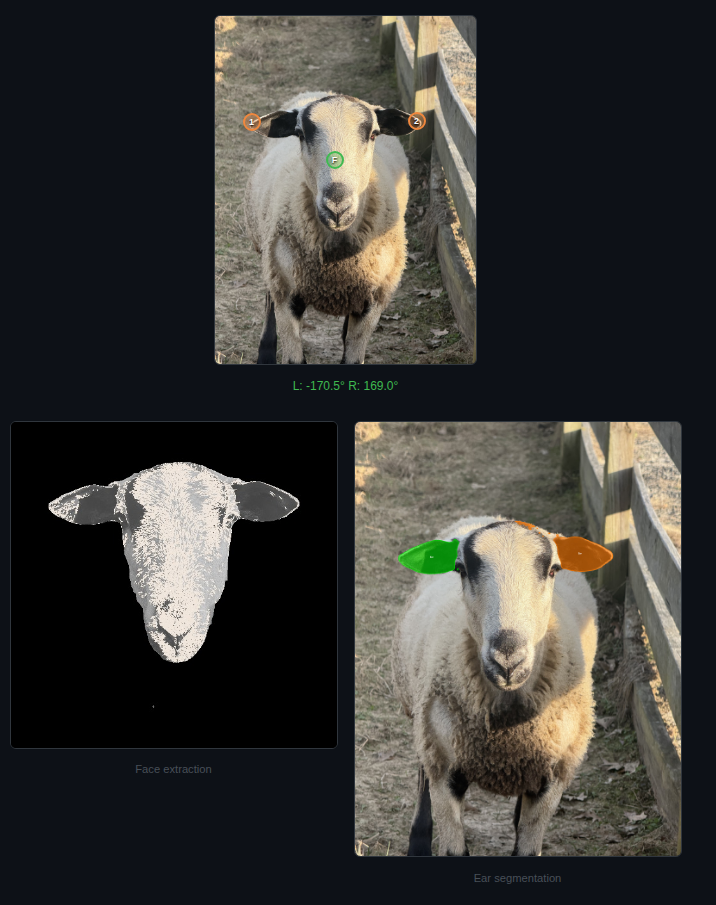
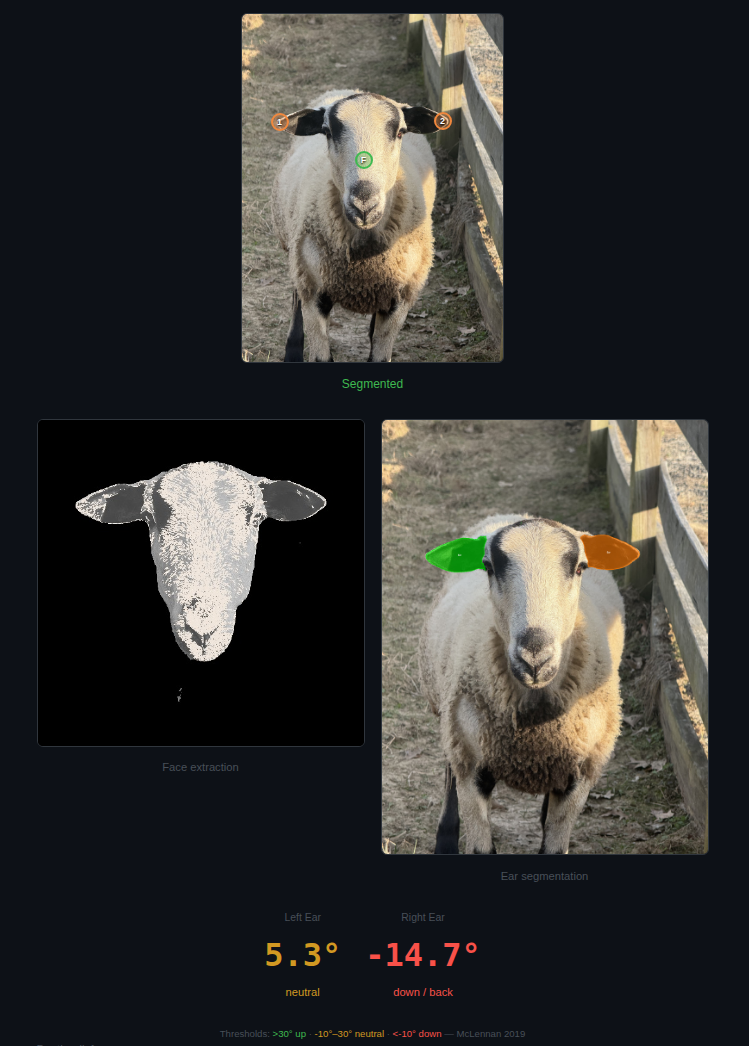
Updated charts

diff --git a/frontend/index.html b/frontend/index.html
@@ -68,7 +68,29 @@ h1{font-family:'SF Mono',monospace;color:#3fb950;font-size:1.4rem}
   <div><img id="img-ears"><div class="cap">Ear segmentation</div></div>
 </div>
 
-<!-- 4. Turntable -->
+<!-- 4. Ear angle measurements -->
+<div id="measurements" class="hidden">
+  <div style="display:flex;gap:1.5rem;justify-content:center;margin:1.5rem 0">
+    <div style="text-align:center">
+      <div style="font-size:.65rem;color:#484f58;margin-bottom:.25rem">Left Ear</div>
+      <div id="m-left" style="font-size:2rem;font-weight:800;font-family:'SF Mono',monospace">--</div>
+      <div id="m-left-label" style="font-size:.7rem;margin-top:.15rem">--</div>
+    </div>
+    <div style="text-align:center">
+      <div style="font-size:.65rem;color:#484f58;margin-bottom:.25rem">Right Ear</div>
+      <div id="m-right" style="font-size:2rem;font-weight:800;font-family:'SF Mono',monospace">--</div>
+      <div id="m-right-label" style="font-size:.7rem;margin-top:.15rem">--</div>
+    </div>
+  </div>
+  <div style="text-align:center;font-size:.6rem;color:#484f58">
+    Thresholds: <span style="color:#3fb950">&gt;30&deg; up</span> &middot;
+    <span style="color:#d29922">-10&deg;&ndash;30&deg; neutral</span> &middot;
+    <span style="color:#f85149">&lt;-10&deg; down</span>
+    &mdash; McLennan 2019
+  </div>
+</div>
+
+<!-- 5. Turntable -->
 <div id="turntable-section" class="hidden">
   <div style="font-size:.7rem;color:#484f58;margin-bottom:4px">Depth relief</div>
   <div class="turntable-wrap" id="turntable-container">
@@ -206,8 +228,9 @@ $('click-photo').addEventListener('click',async e=>{
     }
     if(photo.ear_angles){
       const la=photo.ear_angles.left_ear_angle_deg, ra=photo.ear_angles.right_ear_angle_deg;
-      $('click-hint').textContent='L: '+(la!=null?la.toFixed(1)+'\u00b0':'--')+'  R: '+(ra!=null?ra.toFixed(1)+'\u00b0':'--');
+      $('click-hint').textContent='Segmented';
       $('click-hint').style.color='#3fb950';
+      showMeasurements(la, ra);
     }
     $('status').textContent='Segmented in '+Math.round(photo.segmentation.segmentation_time_ms)+'ms.';
     // Auto-generate depth mesh
@@ -217,6 +240,25 @@ $('click-photo').addEventListener('click',async e=>{
   }
   clickStep=0; clickPoints=[];
 });
+
+/* ── Measurements ── */
+function angleColor(deg){ return deg>30?'#3fb950':deg<-10?'#f85149':'#d29922'; }
+function angleLabel(deg){ return deg>30?'up / alert':deg<-10?'down / back':'neutral'; }
+function showMeasurements(la, ra){
+  $('measurements').classList.remove('hidden');
+  if(la!=null){
+    $('m-left').textContent=la.toFixed(1)+'\u00b0';
+    $('m-left').style.color=angleColor(la);
+    $('m-left-label').textContent=angleLabel(la);
+    $('m-left-label').style.color=angleColor(la);
+  }
+  if(ra!=null){
+    $('m-right').textContent=ra.toFixed(1)+'\u00b0';
+    $('m-right').style.color=angleColor(ra);
+    $('m-right-label').textContent=angleLabel(ra);
+    $('m-right-label').style.color=angleColor(ra);
+  }
+}
 
 /* ── Mesh (auto-triggered after segmentation) ── */
 async function generateMesh(){

diff --git a/backend/pipeline/segment.py b/backend/pipeline/segment.py
@@ -29,19 +29,20 @@ _device = None
 
 
 def _load_model():
-    """Load SAM model from HuggingFace. Downloads ~375MB on first run."""
+    """Load SAM 2.1 model from HuggingFace. Downloads ~350MB on first run."""
     global _model, _processor, _device
     try:
-        from transformers import SamModel, SamProcessor
+        from transformers import Sam2Model, Sam2Processor
 
         _device = "cuda" if torch.cuda.is_available() else "cpu"
-        logger.info("Loading SAM model (facebook/sam-vit-base) on %s...", _device)
-        _processor = SamProcessor.from_pretrained("facebook/sam-vit-base")
-        _model = SamModel.from_pretrained("facebook/sam-vit-base").to(_device)
+        model_id = "facebook/sam2.1-hiera-small"
+        logger.info("Loading SAM 2.1 hiera-small on %s...", _device)
+        _processor = Sam2Processor.from_pretrained(model_id)
+        _model = Sam2Model.from_pretrained(model_id).to(_device)
         _model.eval()
-        logger.info("SAM model loaded.")
+        logger.info("SAM 2.1 model loaded.")
     except Exception as e:
-        logger.error("Failed to load SAM model: %s", e)
+        logger.error("Failed to load SAM 2.1 model: %s", e)
         _model = None
 
 
@@ -61,12 +62,15 @@ def _predict_mask(
     image_pil: Image.Image,
     points: list[list[int]],
     labels: list[int] | None = None,
+    target_area: tuple[float, float] | None = None,
 ) -> Optional[np.ndarray]:
-    """Run SAM with point prompts. Returns the best mask or None.
+    """Run SAM 2.1 with point prompts. Returns the best mask or None.
 
     Args:
         points: list of [x, y] coordinates
         labels: 1=positive (include), 0=negative (exclude). Defaults to all positive.
+        target_area: (min_frac, max_frac) of image area. If set, prefer masks
+                     in this size range over highest score. Use for heads.
     """
     if _model is None or _processor is None:
         return None
@@ -74,8 +78,9 @@ def _predict_mask(
     if labels is None:
         labels = [1] * len(points)
 
-    input_points = [points]
-    input_labels = [labels]
+    # SAM 2 expects 4-level nesting: [image, object, point, xy]
+    input_points = [[points]]
+    input_labels = [[labels]]
     inputs = _processor(
         image_pil,
         input_points=input_points,
@@ -86,19 +91,32 @@ def _predict_mask(
     with torch.no_grad():
         outputs = _model(**inputs)
 
-    masks = _processor.image_processor.post_process_masks(
+    masks = _processor.post_process_masks(
         outputs.pred_masks.cpu(),
         inputs["original_sizes"].cpu(),
-        inputs["reshaped_input_sizes"].cpu(),
     )
 
     scores = outputs.iou_scores.cpu().numpy()[0][0]
     mask_array = masks[0][0].numpy()
+    h, w = mask_array.shape[1], mask_array.shape[2]
+    total_pixels = h * w
 
-    # SAM returns 3 masks at different granularity (small, medium, large).
-    # Pick the highest-scoring mask. The negative prompts already constrain
-    # SAM to exclude the face, so the best-scoring mask is the ear.
-    best_idx = scores.argmax()
+    if target_area is not None:
+        # Pick the best-scoring mask that falls within the target size range
+        min_frac, max_frac = target_area
+        best_idx = None
+        best_score = -1
+        for i in range(len(scores)):
+            frac = mask_array[i].sum() / total_pixels
+            if min_frac <= frac <= max_frac and scores[i] > best_score:
+                best_score = scores[i]
+                best_idx = i
+        # Fallback: pick the largest mask if none matched
+        if best_idx is None:
+            areas = [mask_array[i].sum() for i in range(len(scores))]
+            best_idx = int(np.argmax(areas))
+    else:
+        best_idx = scores.argmax()
 
     best_mask = mask_array[best_idx]
     return best_mask.astype(np.uint8) * 255
@@ -368,7 +386,7 @@ def segment_sheep_at_point(
     confidence = {}
 
     # Step 1: Segment at the clicked point — this is the face
-    head_mask = _predict_mask(image_pil, [[px, py]])
+    head_mask = _predict_mask(image_pil, [[px, py]], target_area=(0.02, 0.40))
 
     if head_mask is not None and (head_mask > 127).sum() > h * w * MIN_MASK_AREA_FRACTION:
         result_masks["head"] = _mask_to_base64_png(head_mask)
@@ -484,7 +502,10 @@ def segment_sheep_multipoint(
         if pt:
             all_points.append(list(pt))
 
-    head_mask = _predict_mask(image_pil, all_points, labels=[1] * len(all_points))
+    head_mask = _predict_mask(
+        image_pil, all_points, labels=[1] * len(all_points),
+        target_area=(0.02, 0.40),
+    )
 
     if head_mask is not None and (head_mask > 127).sum() > h * w * MIN_MASK_AREA_FRACTION:
         result_masks["head"] = _mask_to_base64_png(head_mask)

diff --git a/backend/pipeline/ear_angle.py b/backend/pipeline/ear_angle.py
@@ -129,11 +129,20 @@ def _classify_ear_position(angle_relative_to_head: float) -> EarPosition:
 
 
 def _normalize_angle(angle: float) -> float:
-    """Normalize angle to [-180, 180] range."""
+    """Normalize angle to [-90, 90] range.
+
+    PCA eigenvectors have a 180-degree direction ambiguity — the axis
+    can point either way. Since ear angles in the SPFES context are
+    always in roughly [-60, +60], anything outside ±90 is a PCA flip.
+    """
     while angle > 180:
         angle -= 360
     while angle < -180:
         angle += 360
+    if angle > 90:
+        angle -= 180
+    elif angle < -90:
+        angle += 180
     return angle
 
 
